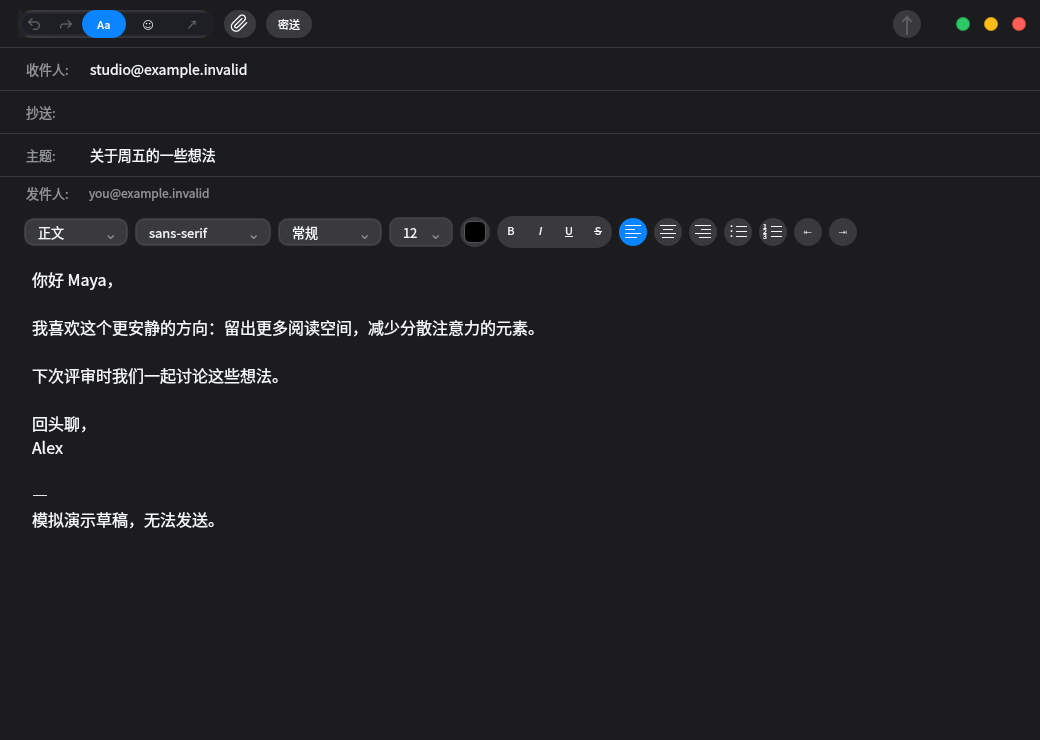
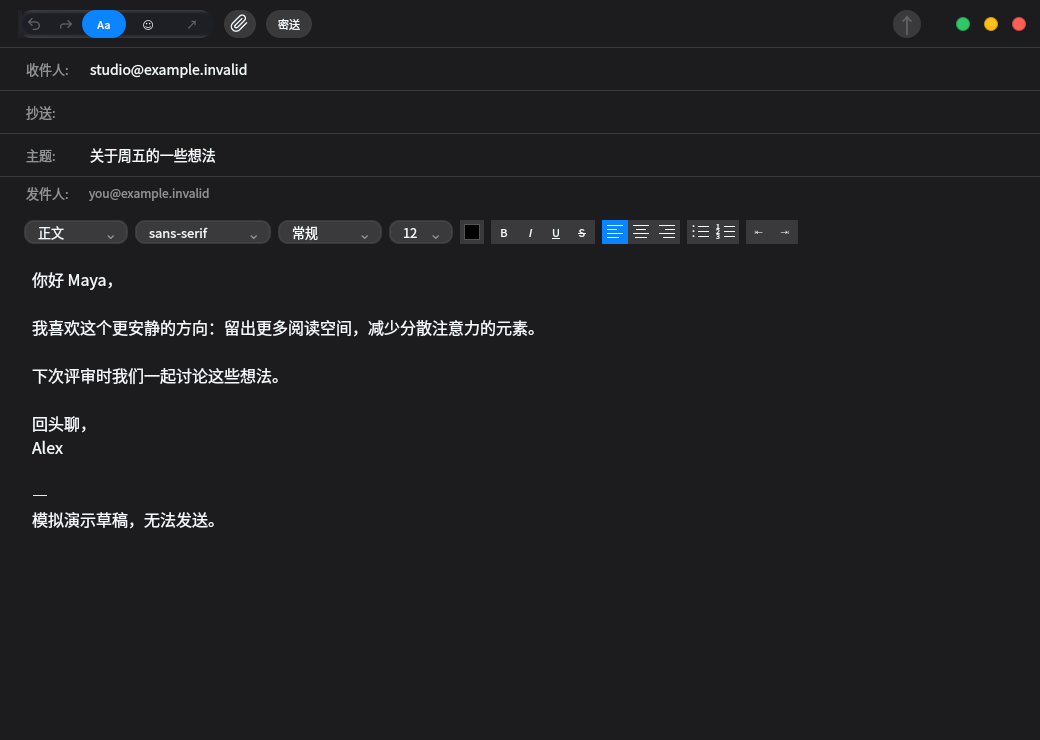
Use compact rectangular groups in the formatting toolbar

Changed region(s): [[0.4, 0.2797, 0.8308, 0.3419]]

diff --git a/qml/MailComposer.qml b/qml/MailComposer.qml
@@ -46,8 +46,26 @@ ApplicationWindow {
         focusPolicy: Qt.TabFocus
     }
     component FormatAction: ComposerAction {
-        implicitWidth: 28
-        implicitHeight: 28
+        implicitWidth: 26
+        implicitHeight: 24
+        materialForm: true
+        flat: true
+        iconOnly: true
+        leftPadding: 0; rightPadding: 0
+        cornerRadius: 0
+    }
+    component FormatGroup: Item {
+        default property alias actions: groupActions.data
+        implicitWidth: groupActions.implicitWidth
+        implicitHeight: 24
+        LiquidActionButton {
+            anchors.fill: parent
+            materialForm: true
+            cornerRadius: 0
+            enabled: false
+            Accessible.ignored: true
+        }
+        Row { id: groupActions; spacing: 0 }
     }
     component ListAction: FormatAction {
         id: listAction
@@ -401,7 +419,7 @@ ApplicationWindow {
                     enabled: root.editable
                     KosComboBox {
                         objectName: "composerParagraphStyle"
-                        implicitWidth: 104; implicitHeight: 28
+                        implicitWidth: 104; implicitHeight: 24
                         model: [qsTr("Body"), qsTr("Title"), qsTr("Heading")]
                         currentIndex: bodyField.cursorSelection.font.bold && bodyField.cursorSelection.font.pointSize === 24 ? 1
                             : bodyField.cursorSelection.font.bold && bodyField.cursorSelection.font.pointSize === 18 ? 2 : 0
@@ -410,7 +428,7 @@ ApplicationWindow {
                     }
                     KosComboBox {
                         objectName: "composerFontFamily"
-                        implicitWidth: 136; implicitHeight: 28
+                        implicitWidth: 136; implicitHeight: 24
                         model: root.availableFonts
                         currentIndex: Math.max(0, root.availableFonts.indexOf(bodyField.cursorSelection.font.family))
                         displayText: bodyField.cursorSelection.font.family || qsTr("System font")
@@ -419,7 +437,7 @@ ApplicationWindow {
                     }
                     KosComboBox {
                         objectName: "composerFontStyle"
-                        implicitWidth: 104; implicitHeight: 28
+                        implicitWidth: 104; implicitHeight: 24
                         model: [qsTr("Regular"), qsTr("Bold"), qsTr("Italic"), qsTr("Bold italic")]
                         currentIndex: (bodyField.cursorSelection.font.bold ? 1 : 0) + (bodyField.cursorSelection.font.italic ? 2 : 0)
                         Accessible.name: qsTr("Font style")
@@ -430,7 +448,7 @@ ApplicationWindow {
                     }
                     KosComboBox {
                         objectName: "composerFontSize"
-                        implicitWidth: 64; implicitHeight: 30
+                        implicitWidth: 64; implicitHeight: 24
                         model: ["10", "12", "14", "16", "18", "24", "32"]
                         currentIndex: model.indexOf(String(Math.round(bodyField.cursorSelection.font.pointSize)))
                         displayText: String(Math.round(bodyField.cursorSelection.font.pointSize > 0 ? bodyField.cursorSelection.font.pointSize : 14))
@@ -438,31 +456,31 @@ ApplicationWindow {
                         onActivated: index => root.format(() => bodyField.cursorSelection.font.pointSize = Number(model[index]))
                     }
                     FormatAction {
-                        text: qsTr("Text color"); implicitWidth: 30; implicitHeight: 30
+                        text: qsTr("Text color"); implicitWidth: 24; implicitHeight: 24; flat: false
                         contentItem: Item {
-                            Rectangle { anchors.centerIn: parent; width: 22; height: 22; color: bodyField.cursorSelection.color; radius: 6; border.width: 1; border.color: AppTheme.border }
+                            Rectangle { anchors.centerIn: parent; width: 16; height: 16; color: bodyField.cursorSelection.color; radius: 0; border.width: 1; border.color: AppTheme.border }
                         }
                         onClicked: { colorDialog.selectedColor = bodyField.cursorSelection.color; colorDialog.open() }
                     }
-                    Item {
-                        implicitWidth: styleActions.implicitWidth; implicitHeight: 32
-                        LiquidActionButton { anchors.fill: parent; materialForm: true; enabled: false; Accessible.ignored: true }
-                        Row {
-                            id: styleActions
-                            spacing: 1
-                            FormatAction { objectName: "composerBold"; flat: true; text: "B"; accessibleText: qsTr("Bold"); checkable: true; checked: bodyField.cursorSelection.font.bold; font.bold: true; onClicked: root.format(() => bodyField.cursorSelection.font.bold = !bodyField.cursorSelection.font.bold) }
-                            FormatAction { flat: true; text: "I"; accessibleText: qsTr("Italic"); checkable: true; checked: bodyField.cursorSelection.font.italic; font.italic: true; onClicked: root.format(() => bodyField.cursorSelection.font.italic = !bodyField.cursorSelection.font.italic) }
-                            FormatAction { flat: true; text: "U"; accessibleText: qsTr("Underline"); checkable: true; checked: bodyField.cursorSelection.font.underline; font.underline: true; onClicked: root.format(() => bodyField.cursorSelection.font.underline = !bodyField.cursorSelection.font.underline) }
-                            FormatAction { flat: true; text: "S"; accessibleText: qsTr("Strikethrough"); checkable: true; checked: bodyField.cursorSelection.font.strikeout; font.strikeout: true; onClicked: root.format(() => bodyField.cursorSelection.font.strikeout = !bodyField.cursorSelection.font.strikeout) }
-                        }
+                    FormatGroup {
+                        FormatAction { objectName: "composerBold"; flat: true; text: "B"; accessibleText: qsTr("Bold"); checkable: true; checked: bodyField.cursorSelection.font.bold; font.bold: true; onClicked: root.format(() => bodyField.cursorSelection.font.bold = !bodyField.cursorSelection.font.bold) }
+                        FormatAction { flat: true; text: "I"; accessibleText: qsTr("Italic"); checkable: true; checked: bodyField.cursorSelection.font.italic; font.italic: true; onClicked: root.format(() => bodyField.cursorSelection.font.italic = !bodyField.cursorSelection.font.italic) }
+                        FormatAction { flat: true; text: "U"; accessibleText: qsTr("Underline"); checkable: true; checked: bodyField.cursorSelection.font.underline; font.underline: true; onClicked: root.format(() => bodyField.cursorSelection.font.underline = !bodyField.cursorSelection.font.underline) }
+                        FormatAction { flat: true; text: "S"; accessibleText: qsTr("Strikethrough"); checkable: true; checked: bodyField.cursorSelection.font.strikeout; font.strikeout: true; onClicked: root.format(() => bodyField.cursorSelection.font.strikeout = !bodyField.cursorSelection.font.strikeout) }
                     }
-                    AlignmentAction { objectName: "composerAlign0"; paragraphAlignment: Qt.AlignLeft; accessibleText: qsTr("Align left") }
-                    AlignmentAction { objectName: "composerAlign1"; paragraphAlignment: Qt.AlignHCenter; accessibleText: qsTr("Align center") }
-                    AlignmentAction { objectName: "composerAlign2"; paragraphAlignment: Qt.AlignRight; accessibleText: qsTr("Align right") }
-                    ListAction { objectName: "composerBullets"; accessibleText: qsTr("Bullet list"); checkable: true; checked: root.paragraphState.bullets; onClicked: root.format(() => richEditor.toggleBulletList(bodyField.textDocument)) }
-                    ListAction { objectName: "composerNumbers"; numbered: true; accessibleText: qsTr("Numbered list"); checkable: true; checked: root.paragraphState.numbered; onClicked: root.format(() => richEditor.toggleNumberedList(bodyField.textDocument)) }
-                    FormatAction { objectName: "composerOutdent"; text: "⇤"; accessibleText: qsTr("Decrease indent"); onClicked: root.format(() => richEditor.changeIndent(bodyField.textDocument, -1)) }
-                    FormatAction { objectName: "composerIndent"; text: "⇥"; accessibleText: qsTr("Increase indent"); onClicked: root.format(() => richEditor.changeIndent(bodyField.textDocument, 1)) }
+                    FormatGroup {
+                        AlignmentAction { objectName: "composerAlign0"; paragraphAlignment: Qt.AlignLeft; accessibleText: qsTr("Align left") }
+                        AlignmentAction { objectName: "composerAlign1"; paragraphAlignment: Qt.AlignHCenter; accessibleText: qsTr("Align center") }
+                        AlignmentAction { objectName: "composerAlign2"; paragraphAlignment: Qt.AlignRight; accessibleText: qsTr("Align right") }
+                    }
+                    FormatGroup {
+                        ListAction { objectName: "composerBullets"; accessibleText: qsTr("Bullet list"); checkable: true; checked: root.paragraphState.bullets; onClicked: root.format(() => richEditor.toggleBulletList(bodyField.textDocument)) }
+                        ListAction { objectName: "composerNumbers"; numbered: true; accessibleText: qsTr("Numbered list"); checkable: true; checked: root.paragraphState.numbered; onClicked: root.format(() => richEditor.toggleNumberedList(bodyField.textDocument)) }
+                    }
+                    FormatGroup {
+                        FormatAction { objectName: "composerOutdent"; text: "⇤"; accessibleText: qsTr("Decrease indent"); onClicked: root.format(() => richEditor.changeIndent(bodyField.textDocument, -1)) }
+                        FormatAction { objectName: "composerIndent"; text: "⇥"; accessibleText: qsTr("Increase indent"); onClicked: root.format(() => richEditor.changeIndent(bodyField.textDocument, 1)) }
+                    }
                 }
             }
             ScrollView {

diff --git a/GOAL.md b/GOAL.md
@@ -1,5 +1,10 @@
 # NkMail local delivery goal
 
+## Compact rectangular formatting groups · 2026-11-03
+
+- Applied the user’s explicit formatting-toolbar correction: 24px ordinary rectangular button groups for emphasis, alignment, lists and indentation, with square action cells and group surfaces. Removed separate circular/pill buttons and the oversized emphasis capsule. Aligned font selectors and color control to the compact row.
+- VM build and existing UI/i18n/catalog checks passed (3/3, 30.38s; 46 UI cases). Final glyph-padding adjustment is covered by the VM build and light/dark software-fallback captures. No host validation performed.
+
 ## Composer editing tools · 2026-11-03
 
 - Continued from the supplied macOS Mail reference while retaining the NextKde window/material contract. Added text presets, installed font families and faces, selection-aware formatting state, paragraph alignment, numbered lists and block indentation. Added anchored emoji/link editors and body-only formatting shortcuts. Selection replacement is one undo operation.

diff --git a/docs/progress/2026-11-03-composer-editing/README.md b/docs/progress/2026-11-03-composer-editing/README.md
@@ -14,3 +14,9 @@ Chinese light/dark client captures were inspected using the VM's offscreen softw
 
 - `compose-light.png`: Chinese synthetic light composer, software fallback.
 - `compose-dark.png`: Chinese synthetic dark composer, software fallback.
+
+## Compact formatting groups
+
+The user's follow-up specifies small, non-rounded button groups for the formatting strip. Emphasis, alignment, lists and indentation now each share a rectangular ordinary surface with 24px-high square action cells; the font selectors and color control match the compact height. The app composes existing shared action controls without changing the pinned UI library. Header floating controls retain their existing material and shape.
+
+VM build and existing UI/i18n/catalog checks passed 3/3 in 30.38s (46 UI cases). The final icon-only/padding adjustment was rebuilt and reviewed in refreshed light/dark software-fallback exports. No host build, test or GUI execution was performed.
